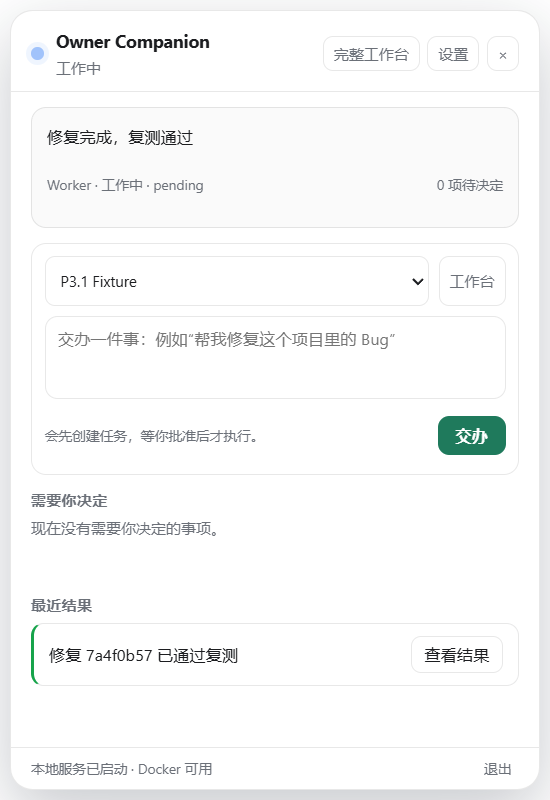
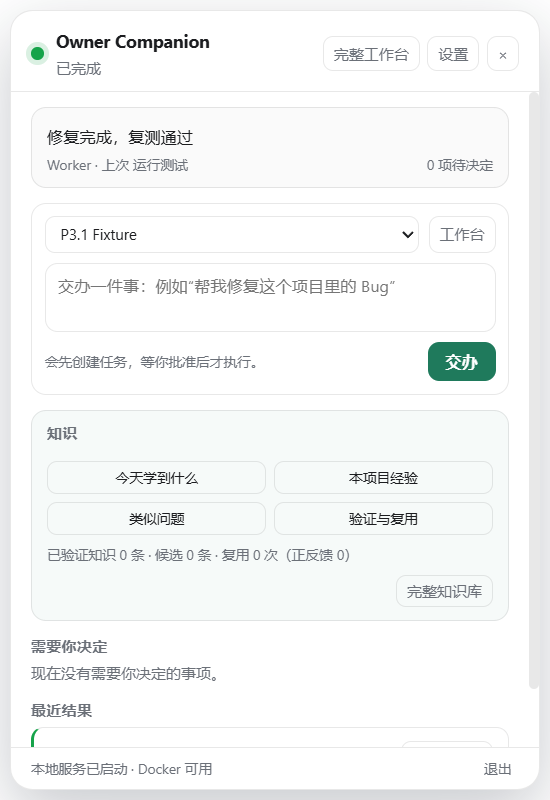
feat(companion): add knowledge loop entry and screenshots

diff --git a/docs/KNOWLEDGE_LOOP_V1_DELIVERY.md b/docs/KNOWLEDGE_LOOP_V1_DELIVERY.md
@@ -166,5 +166,14 @@ node scripts/knowledge-loop/eval-hard.mjs --root <dir> --allow-model
 | 真实 Pi 提炼案例 | ✅（harvest_53ef...） |
 | 真实 Pi 复用案例 | ✅（real-reuse-b） |
 | 三轮 Eval/质量迭代 | ✅（见 §7） |
-| 桌宠知识入口 | ⏳ 堆叠 Companion PR |
+| 桌宠知识入口 | ✅（堆叠 Companion 分支；四问 + 详情 + 完整知识库） |
+
+## 11. Companion 知识入口
+
+- 面板摘要：已验证知识数 / 候选数 / 复用次数与正反馈。
+- 四个请求：今天学到什么、本项目经验、类似问题、验证与复用。
+- 详情：claim、层级、verification、revision、证据、复用项目、正/负反馈。
+- 候选与 Coding Job 审批分开展示；完整编辑/冲突分析打开 Workbench。
+- Electron E2E：`npm run e2e:desktop:knowledge`。
+- 截图：`docs/assets/companion/knowledge-list.png`、`knowledge-detail.png`。
 | 安装/回滚说明 | ✅（CLI + docs） |
